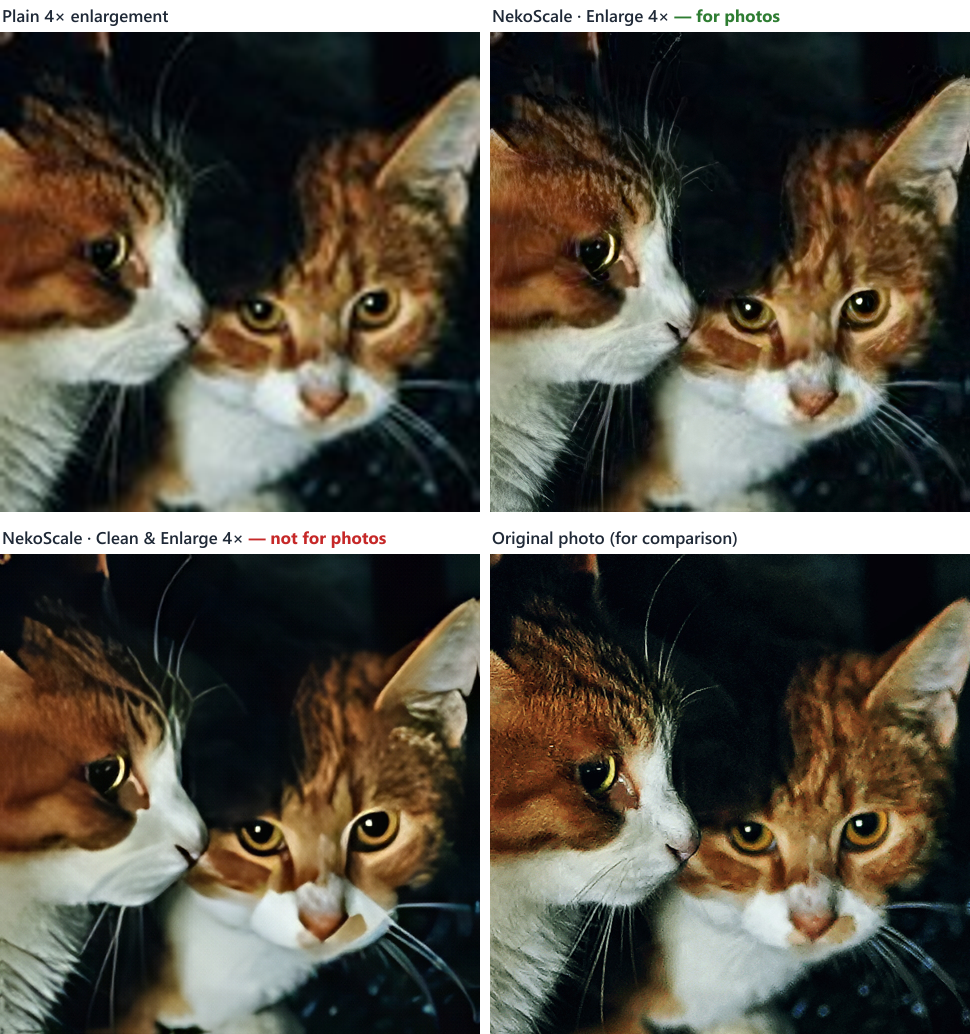
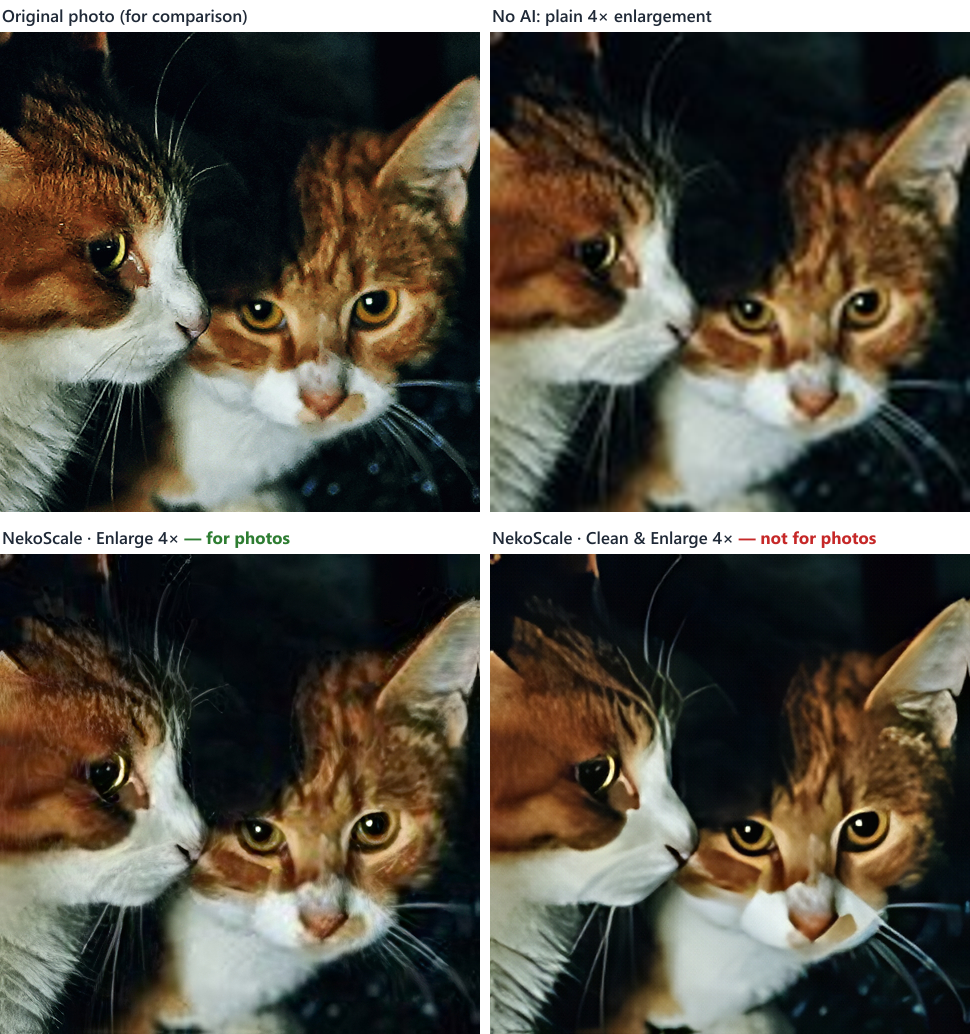
README: comparison panels reordered

diff --git a/README.md b/README.md
@@ -12,11 +12,11 @@
   - **Clean & Enlarge** clears blur, noise and compression marks. For small or compressed product images.
 - Add many files at once (JPG and PNG can be mixed) and upscale them in one go.
 
-![Part of a cat photo: plain 4× enlargement, NekoScale Enlarge 4×, NekoScale Clean & Enlarge 4×, and the original photo](images/example-4x.png)
+![Part of a cat photo: the original photo, plain 4× enlargement without AI, NekoScale Enlarge 4× and NekoScale Clean & Enlarge 4×](images/example-4x.png)
 
 *Part of a photo was reduced to 120×120 pixels and saved as a JPG, then enlarged 4× to 480×480 again. Each panel is shown at its real size, with nothing edited, next to the original photo. **Enlarge** keeps the fur looking natural.* **Clean & Enlarge is not recommended for photos:** it smooths fine texture such as fur until it looks painted.
 
-![Part of a product image: plain 4× enlargement, NekoScale Enlarge 4×, NekoScale Clean & Enlarge 4×, and the original image](images/example-product-4x.png)
+![Part of a product image: the original image, plain 4× enlargement without AI, NekoScale Enlarge 4× and NekoScale Clean & Enlarge 4×](images/example-product-4x.png)
 
 *Part of a product image was reduced to 120×120 pixels and saved as a strongly compressed JPG (quality 75), then enlarged 4×. **Clean & Enlarge** clears the compression marks and gives clean surfaces and edges.* **Enlarge is not recommended for product images:** it turns compression marks into false detail.
 
